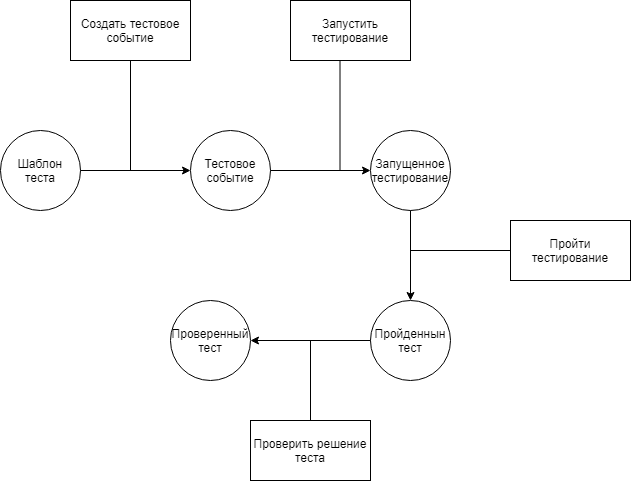
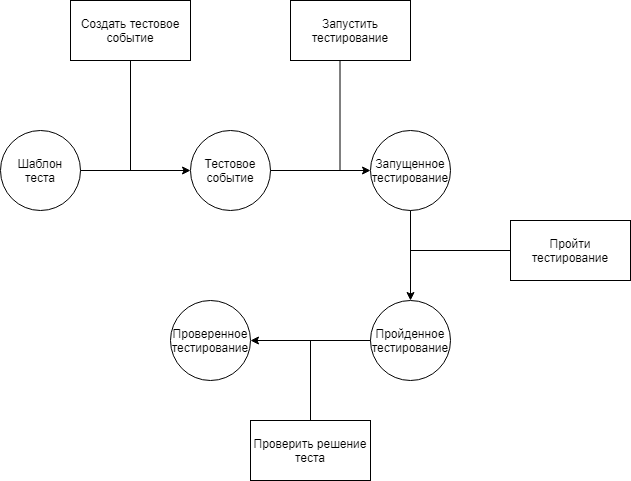
[design] Implement Idef0 report, start implementing idef3 report Update diagrams. Add images.

Changed region(s): [[0.5721, 0.6861, 0.7227, 0.7484], [0.271, 0.6861, 0.3914, 0.7484]]

diff --git a/design/idef/report/idef0.tex b/design/idef/report/idef0.tex
@@ -1,0 +1,121 @@
+\section{Диаграммы IDEF0}
+    \subsection{Контекстная диаграмма верхнего уровня}
+    \begin{figure}[H]
+        \includegraphics[width=\textwidth, center]{../img/idef0/idef0_context.png}
+        \caption{Контекстная диаграмма верхнего уровня}
+    \end{figure}
+
+    Данная диаграмма является общим представлением работы автоматизированной
+    системы для тестирования.
+
+    На вход системы поступают преподаватели (администрароторы) и студенты
+    (пользователи).
+
+    Выходными блоками являются проверенные тестовые задания и удовлетворенные
+    потребности преподавателей.
+
+    Управление для данной системы осуществляют законы Российской Федерации,
+    устанавливающие порядок обработки персональных данных, а также ряд других
+    ограничений, и требования, предъявляемые к функциональности системы.
+
+    Механизмами, выполняющими преобразования входных данных в выходные являются
+    аппаратные и программные средства: компьютеры, операционная система,
+    языки программирования, различные библиотеки и виртуальные среды для
+    выполнения кода программы.
+
+    \subsection{Работа системы тестирования}
+    \begin{figure}[H]
+        \includegraphics[width=\textwidth, center]{../img/idef0/context_decompose.png}
+        \caption{Работа системы тестирования}
+    \end{figure}
+
+    Данная диаграмма раскрывает функциональный блок контекстной
+    диаграммы верхнего уровня "Работа системы тестирования".
+
+    На диаграмме представлены следующие функциональные блоки:
+    \begin{enumerate}
+        \item Создать шаблон теста - на вход получает преподавателей, а на выходе имеет 
+        шаблон тестовый шаблон
+        \item Создать событие - принимает на вход преподавателей и созданный тестовый
+        шаблон и возвращает тестовое событие
+        \item Запустить тестирование - получает тестовое событие и студентов, а
+        выдает пройденное тестирование
+        \item Проверить тест - Преобразует пройденное тестирование в проверенное
+        тестирование и удовлетворение потребностей преподавателей.
+    \end{enumerate}
+
+    Далее будут более подробно рассмотрены представленные функциональные блоки.
+
+    \subsection{Создать шаблон теста}
+    \begin{figure}[H]
+        \includegraphics[width=\textwidth, center]{../img/idef0/CreateTestTemplate.png}
+        \caption{Создать шаблон теста}
+    \end{figure}
+
+    На диаграмме представлены следующие функциональные блоки:
+    \begin{enumerate}
+        \item Задать описание теста - на вход принимает преподавателей, а на выходе
+        имеет описание теста
+        \item Создать вопросы теста - на вход принимает преподавателей и описание теста,
+        а на выходе имеет шаблон теста
+    \end{enumerate}
+
+
+    \subsection{Создать вопросы теста}
+    \begin{figure}[H]
+        \includegraphics[width=\textwidth, center]{../img/idef0/CreateTemplateQuestions.png}
+        \caption{Создать шаблон теста}
+    \end{figure}
+    \begin{enumerate}
+        \item Задать описание вопросов - на вход принимает описание тестов и преподавателей,
+        а на выходе имеет описание вопросов
+        \item Задать вид тестируемых процедур - на вход принимает преподавателей и
+        описание вопросов, а на выходе имеет описание процедур
+        \item Задать верное решение - на вход принимает преподавателей и описание процедур,
+        а на выходе имеет верное решение
+        \item Задать входные данные для тестирование - на вход принимает верное решение
+        и преподавателей, а на выходе имеет шаблон теста
+    \end{enumerate}
+
+    \subsection{Создать событие}
+    \begin{figure}[H]
+        \includegraphics[width=\textwidth, center]{../img/idef0/CreateInstance.png}
+        \caption{Создать событие}
+    \end{figure}
+    
+    \begin{enumerate}
+        \item Задать время начала и окончания - на вход принимает преподавателей и
+        шаблон теста, а на выходе имеет время начала и окончания события
+        \item Задать список студентов и для теста - на вход принимает преподавателей
+        и шаблон теста, а на выходе имеет тестовое событие
+    \end{enumerate}
+
+    \subsection{Запустить тестирование}
+    \begin{figure}[H]
+        \includegraphics[width=\textwidth, center]{../img/idef0/RunTestDecompose.png}
+        \caption{Запустить тестирование}
+    \end{figure}
+
+    \begin{enumerate}
+        \item Задать ответы на вопросы - на вход принимает тестовое событие и
+        студентов, а на выходе имеет ответы на вопросы теста
+        \item Сохранить пройденное тестирование  - на вход принимает ответы
+        на вопросы теста, а на выходе имеет пройденное тестирование
+    \end{enumerate}
+
+    \subsection{Проверить тест}
+    \begin{figure}[H]
+        \includegraphics[width=\textwidth, center]{../img/idef0/ValidateTestDecompose.png}
+        \caption{Проверить тест}
+    \end{figure}
+
+    \begin{enumerate}
+        \item Запустить пользовательские решения - на вход принимает пройденное тестирование,
+        а на выходе имеет результат запуска пользовательских решений
+        \item Сверить результаты тестов с правильными ответами - на вход принимает 
+        результат запуска пользовательских решений, а на выходе имеет результат сравнения 
+        решений
+        \item Сохранить проверенные тесты - на вход принимает результат сравнения
+        решений, а на выходе имеет проверенные тесты и удовлетворение потребностей
+        преподавателей
+    \end{enumerate}

diff --git a/design/idef/report/idef3.tex b/design/idef/report/idef3.tex
@@ -1,0 +1,98 @@
+\section{Диаграммы IDEF3}
+\subsection{PFDD диаграммы}
+
+\subsubsection{Контекстная диаграмма верхнего уровня}
+
+Студенты и преподаватели взаимодействуют с системой,в результате чего на выходе
+образуются проверенные тесты и удовлетворение потребностей преподавателей.
+
+\begin{figure}[H]
+    \includegraphics[width=\textwidth, center]{../img/idef3/Context.png}
+    \caption{Контекстная диаграмма верхнего уровня}
+\end{figure}
+
+Данная диаграмма отображает наиболее общий вид модели системы тестирования.
+
+\subsubsection{Работать с системой тестирования}
+\begin{figure}[H]
+    \includegraphics[width=\textwidth, center]{../img/idef3/ContextDecompose.png}
+    \caption{Работать с системой тестирования}
+\end{figure}
+
+Преподаватели сначала создают шаблон теста, потом создают на основе этого шаблона
+тестовое событие, которое запускают и проходят студенты, после чего пройденное 
+тестирование проверяется системой на корректность, и результат проверки становится
+доступен для студента, прошедшего тестирование и преподавателей.
+
+\subsubsection{Создать шаблон теста}
+\begin{figure}[H]
+    \includegraphics[width=\textwidth, center]{../img/idef3/CreateTestTemplate.png}
+    \caption{Создать шаблон теста}
+\end{figure}
+
+Преподаватели задают описание теста и формируют вопросы теста, в результате чего
+получает шаблон теста.
+
+\subsubsection{Создать событие}
+\begin{figure}[H]
+    \includegraphics[width=\textwidth, center]{../img/idef3/CreateTestInstance.png}
+    \caption{Создать событие}
+\end{figure}
+
+На основе шаблона теста преподаватель создает тестовое событие, для которого указывает
+время начала и окончания и список студентов, которым необходимо принять участие
+в этом событии.
+
+\subsubsection{Запустить тестирование}
+\begin{figure}[H]
+    \includegraphics[width=\textwidth, center]{../img/idef3/RunTest.png}
+    \caption{Запустить тестирование}
+\end{figure}
+
+Студент запускает выбранное тестовое событие и отвечает на вопросы теста,
+если знает на них ответы. По завершении тестирования все ответы студента сохраняются.
+
+\subsubsection{Проверить тестирование}
+\begin{figure}[H]
+    \includegraphics[width=\textwidth, center]{../img/idef3/ValidateTest.png}
+    \caption{Проверить тестирование}
+\end{figure}
+
+После завершения тестирования система запускает код решений студента, получает
+результаты работы алгоритмов и сравнивает их с правильными ответами на соответствующие вопросы.
+После проверки результаты сохраняются и становятся доступны преподавателям и студенту,
+проходившему тестирование.
+
+\subsection{OSTN диаграмма}
+\begin{figure}[H]
+    \includegraphics[width=\textwidth, center]{../img/OSTN.png}
+    \caption{OSTN диаграмма}
+\end{figure}
+
+В системе не существует какого-то одного объекта, который подвергается изменениям.
+Поэтому на данной диаграмме отображены основные объекты, которые присутствуют в
+системе и образуются на различных этапах взаимодействия с ней.
+
+Существуют следующие объекты:
+\begin{enumerate}
+    \item Шаблон теста
+    \item Тестовое событие
+    \item Запущенное тестирование
+    \item Пройденное тестирование
+    \item Проверенное тестирование
+\end{enumerate}
+
+Переходы:
+\begin{enumerate}
+    \item Шаблон теста -> Тестовое событие (событие создается на основе шаблона
+    и имеет список назначенных на него студентов)
+    \item Тестовое событие -> Запущенное тестирование (назначенный на событие студент
+    может запустить его и начать проходить тестирование)
+    \item Запущенное тестирование -> Пройденное тестирование (когда студент заканчивает
+    прохождение тестирования, то оно становится пройденным, и его результаты сохраняются)
+    \item Пройденное тестирование -> Проверенное тестирование (После прохождение тестирования
+    система проверяет его и сохраняет результаты проверки)
+\end{enumerate}
+
+
+\subsection{DFD диаграммы}

diff --git a/design/idef/report/idef_report.tex b/design/idef/report/idef_report.tex
@@ -44,44 +44,8 @@
     \thispagestyle{empty}
     \newpage
 
-    \section{Диаграммы IDEF0}
-    \subsection{Контекстная диаграмма верхнего уровня}
-    \begin{figure}[H]
-        \includegraphics[width=\textwidth, center]{../img/idef0/idef0_context.png}
-        \caption{Контекстная диаграмма верхнего уровня}
-    \end{figure}
-
-    Данная диаграмма является общим представлением работы автоматизированной
-    системы для тестирования.
-
-    На вход системы поступают преподаватели (администрароторы) и студенты
-    (пользователи).
-
-    Выходными блоками являются проверенные тестовые задания и удовлетворенные
-    потребности преподавателей.
-
-    Управление для данной системы осуществляют законы Российской Федерации,
-    устанавливающие порядок обработки персональных данных, а также ряд других
-    ограничений, и требования, предъявляемые к функциональности системы.
-
-    Механизмами, выполняющими преобразования входных данных в выходные являются
-    аппаратные и программные средства: компьютеры, операционная система,
-    языки программирования, различные библиотеки и виртуальные среды для
-    выполнения кода программы.
-
-    \subsection{Работа системы тестирования}
-    \begin{figure}[H]
-        \includegraphics[width=\textwidth, center]{../img/idef0/context_decompose.png}
-        \caption{Работа системы тестирования}
-    \end{figure}
-
-    Данная диаграмма раскрывает функциональный блок контекстной
-    диаграммы верхнего уровня "Работа системы тестирования".
-
-    Представленные функциональные блоки
-
-
-
+    \include{idef0}
+    \include{idef3}
 
 
 \end{document}
